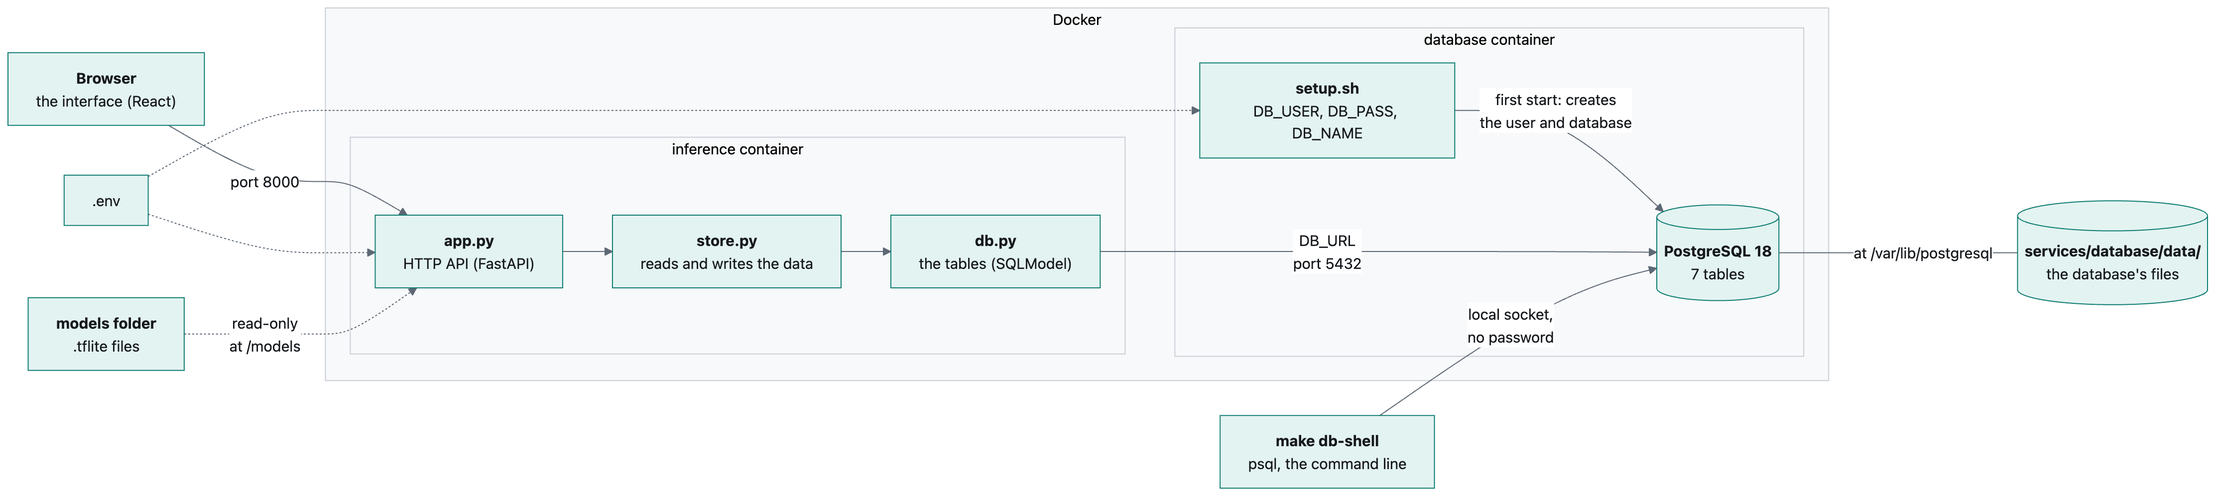
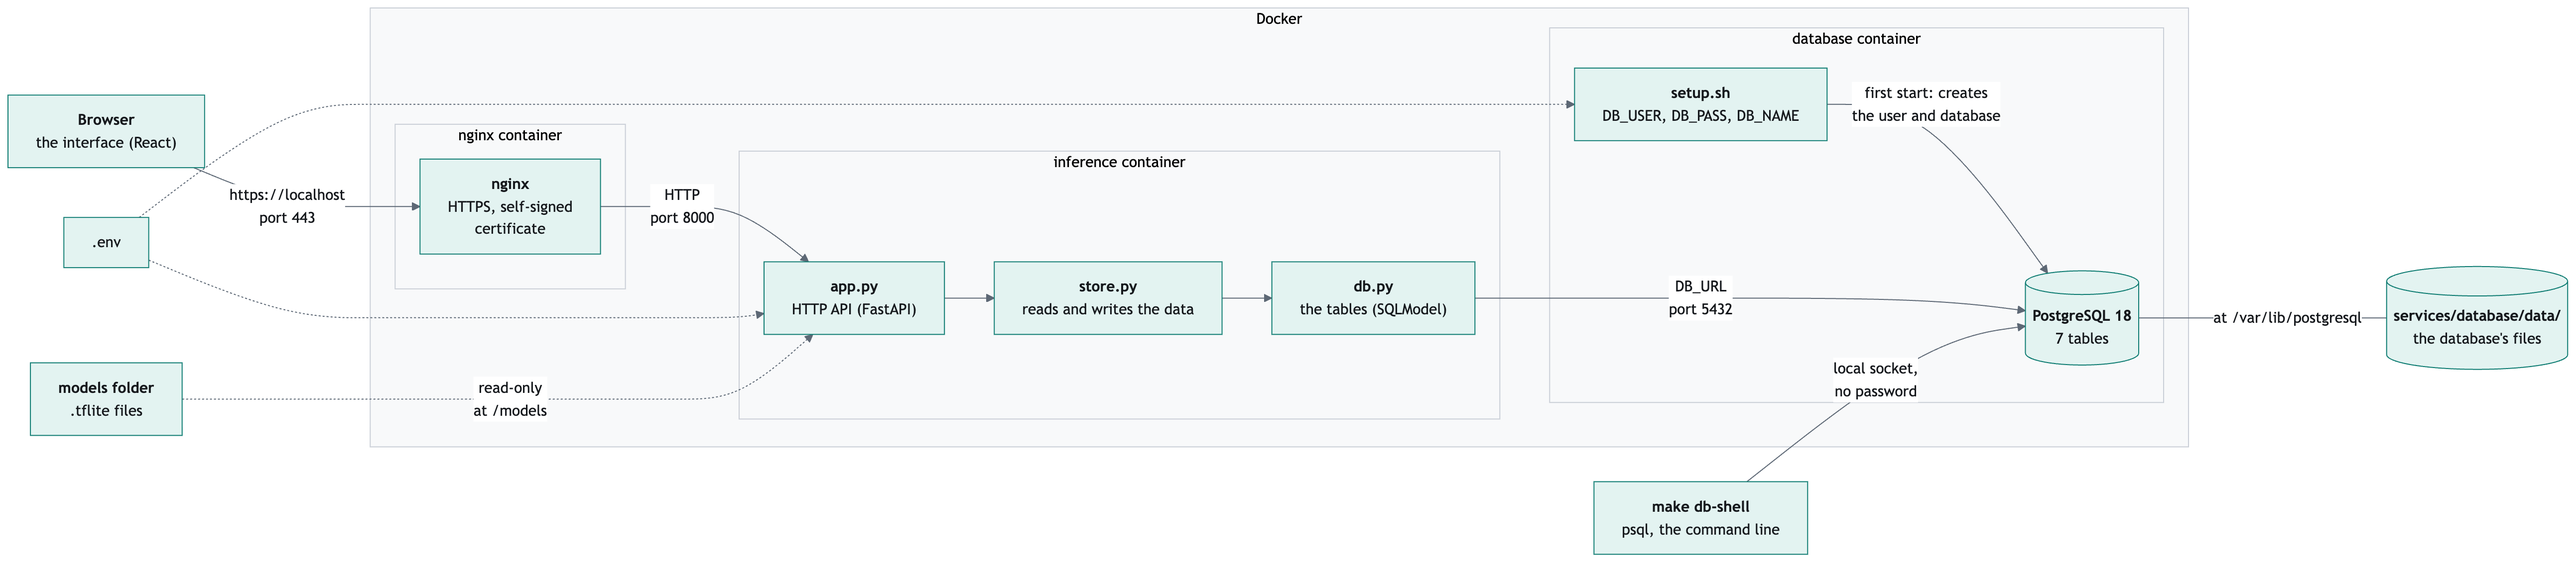
feat: nginx reverse proxy and https integraion

diff --git a/services/inference/web/vite.config.ts b/services/inference/web/vite.config.ts
@@ -4,7 +4,8 @@ import react from "@vitejs/plugin-react";
 export default defineConfig({
   plugins: [react()],
   server: {
-    proxy: { "/api": "http://localhost:8000" },
+    proxy: { "/api": { target: "https://localhost", secure: false } },
   },
-  // `npm run dev` serves the app on port 5173 and forwards /api to the container on port 8000.
+  // `npm run dev` serves the app on port 5173 and forwards /api to the nginx container on port 443;
+  // secure: false accepts its self-signed certificate.
 });

diff --git a/INTERFACE.md b/INTERFACE.md
@@ -42,16 +42,22 @@ DB_URL=postgresql://db-username:db-password@database:5432/db-name
 Each line is one setting, explained in [Settings](#7-settings). Then start the service:
 
 ```bash
-make up    # builds the image (first time only) and starts the service
+make up    # builds the images (first time only) and starts the service
 ```
 
 The first `make up` takes a few minutes, because it downloads and builds everything. Later starts take a few seconds.
 
-Then open **http://localhost:8000** in your browser.
+Then open **https://localhost** in your browser.
+
+The first time, the browser warns that the connection is not private: the certificate is self-signed, made by the nginx image when it was built, not by a certificate authority. Click **Advanced**, then continue to localhost (in Safari: **Show Details**, then **visit this website**). The traffic is encrypted all the same. The certificate is valid for a year from the build; the warning comes back once whenever the nginx image is built from scratch with a new one, for example after `make clean`.
+
+On a server that doctors open from their own computers, use a certificate their browsers trust instead, for the server's name (from the clinic's IT department or Let's Encrypt): put it in `services/nginx/certs/` as `apnea.crt`, with its key as `apnea.key`, then run `make rebuild`. The nginx image then uses them and makes no self-signed certificate, and the warning disappears. Git ignores both files; the key ends up inside the image, so the image stays on the server.
+
+nginx is the only container with a port open on the computer, 443 (HTTPS): it passes every request on to the service, which listens on port 8000 inside Docker only. A plain `http://localhost` finds nothing, since port 80 is not open.
 
 The patient list starts empty: add patients and their nights as described in [Adding recordings](#3-adding-recordings).
 
-To check that it is running, `make ps` should show both containers, `apnea_database` and `apnea_inference`, as `(healthy)`.
+To check that it is running, `make ps` should show the three containers: `apnea_database` and `apnea_inference` as `(healthy)`, and `apnea_nginx` as `Up`.
 
 ### Stopping it
 
@@ -300,15 +306,15 @@ Run from the project folder.
 |---|---|
 | `make up` | Start the service (builds the image the first time) |
 | `make stop` | Stop the service |
-| `make ps` | Show whether the two containers are running and healthy |
+| `make ps` | Show whether the three containers are running, and whether the service and the database are healthy |
 | `make logs` | Show the service's log as it runs |
-| `make rebuild` | Rebuild and restart: needed after changing any code in `services/inference/` |
+| `make rebuild` | Rebuild and restart: needed after changing any code in `services/inference/` or `services/nginx/` |
 | `make shell` | Open a terminal inside the service's container |
 | `make db-shell` | Open PostgreSQL's command line, to look at the tables |
 | `make demo` | Add three demo patients, "Apnea-ECG control", "Apnea-ECG borderline" and "Apnea-ECG apnea", with the 35 test recordings of the Apnea-ECG Database (x01 to x35), on which no model was trained. They stay in the patient list like any other patient. The recordings are kept in `data/apnea-ecg/`; any missing ones are downloaded there first (about 210 MB in all). It takes a few minutes; running it again adds nothing |
 | `make eval` | Score `model_cinc2018_float32.tflite` and `model_cinc2018_int8.tflite` on the demo patients against the expert's minute labels. Prints accuracy, sensitivity, specificity, AUC and the TN, FP, FN and TP counts per model, and the accuracy per patient, and draws both confusion matrices in `results/evaluate.png`. Run `make demo` first, and `make rebuild` once after updating the project (the image needs matplotlib). The first run analyses the 35 nights with each model, about 2 minutes, and keeps the analyses, so the interface then shows those nights as analysed; later runs reuse them and take seconds |
 | `make down` | Remove the containers. Recordings and the database are kept |
-| `make build` | Build both images, the database's and the service's, without starting them |
+| `make build` | Build the three images, the database's, the service's and nginx's, without starting them |
 | `make clean` | **Removes the containers and every unused Docker image and cache on this computer**, including other projects'. Recordings and the database are kept |
 | `make fclean` | `make clean`, then **deletes the database**: every patient, recording and analysis. The next `make up` starts with an empty one. This cannot be undone: make a [backup](DATABASE.md#10-backup-and-restore) first |
 
@@ -335,17 +341,21 @@ services/
 │   ├── web/               # the interface: React 19 + TypeScript, built with Vite
 │   └── data/
 │       └── models/        # .tflite models
-└── database/
-    ├── Dockerfile         # the database's image: PostgreSQL 18
-    ├── setup/setup.sh     # starts PostgreSQL with the settings from .env
-    └── data/              # the database's files (not committed)
+├── database/
+│   ├── Dockerfile         # the database's image: PostgreSQL 18
+│   ├── setup/setup.sh     # starts PostgreSQL with the settings from .env
+│   └── data/              # the database's files (not committed)
+└── nginx/
+    ├── Dockerfile         # the proxy's image: nginx on Debian 12, with its certificate
+    ├── certs/             # the server's own apnea.crt and apnea.key, if any (not committed)
+    └── conf/nginx.conf    # HTTPS on port 443, every request passed on to the service
 ```
 
 `pipeline.py`, `patients.py`, `db.py` and `store.py` do not depend on the web server, so they can be imported from any Python script.
 
 ### HTTP API
 
-The interface talks to the server through these routes. `model` is a file name from the models folder; without it, the model named by `MODEL_PATH` is used.
+The interface talks to the server through these routes, at `https://localhost` through nginx (with curl, add `-k` to accept the self-signed certificate). `model` is a file name from the models folder; without it, the model named by `MODEL_PATH` is used.
 
 | Method and path | Returns |
 |---|---|

diff --git a/README.md b/README.md
@@ -24,7 +24,15 @@ The project has two parts:
 | **Model** | Dilated residual 1D CNN: 4-layer stem, 7 residual blocks (dilations 1 to 64), 69,646 parameters |
 | **Loss** | Binary cross-entropy |
 | **Framework** | TensorFlow 2.20 (Keras 3) |
-| **Review interface** | FastAPI + React, with a PostgreSQL database, in Docker ([INTERFACE.md](INTERFACE.md)) |
+| **Review interface** | FastAPI + React, with a PostgreSQL database, behind an nginx HTTPS proxy, in Docker ([INTERFACE.md](INTERFACE.md)) |
+
+---
+
+## Model
+
+![The model: stem, 7 residual blocks, pooling and head, with the inside of one residual block](docs/diagrams/model-architecture.png)
+
+The stem shrinks the minute to 375 timesteps; the dilated blocks then widen the receptive field to **8225 samples (82.2 s)**. `build_model()` asserts that this covers the 60 s window, so a change to the stem or the dilations that breaks the coverage fails at build time.
 
 ---
 
@@ -96,12 +104,16 @@ ENSAM_APNEA_CNN/
 │   │   ├── demo/evaluate.py   # make eval: the cinc2018 models scored on those patients
 │   │   ├── data/models/     # .tflite models the service runs
 │   │   └── Dockerfile, requirements.txt
-│   └── database/            # the PostgreSQL database, see DATABASE.md
-│       ├── Dockerfile       # its image (PostgreSQL 18)
-│       ├── setup/setup.sh   # starts PostgreSQL with the settings from .env
-│       └── data/            # its files: patients, recordings, results (git-ignored)
+│   ├── database/            # the PostgreSQL database, see DATABASE.md
+│   │   ├── Dockerfile       # its image (PostgreSQL 18)
+│   │   ├── setup/setup.sh   # starts PostgreSQL with the settings from .env
+│   │   └── data/            # its files: patients, recordings, results (git-ignored)
+│   └── nginx/               # the reverse proxy: HTTPS on port 443, the only port open on the computer
+│       ├── Dockerfile       # its image (nginx on Debian 12) and its certificate
+│       ├── certs/           # the server's own certificate and key, if any; else a self-signed one is made
+│       └── conf/nginx.conf  # passes every request on to the inference service
 ├── requirements.txt         # Python packages of the training notebook
-├── docker-compose.yml       # runs the inference service and its database
+├── docker-compose.yml       # runs nginx, the inference service and its database
 ├── Makefile                 # make up, make rebuild, make logs, make shell...
 ├── .env.example             # service settings; copy to .env
 ├── INTERFACE.md             # inference service guide
@@ -139,7 +151,9 @@ cp .env.example .env    # then replace change-me with a password, in both lines
 make up
 ```
 
-Then open **http://localhost:8000**: a list of patients, each with their recorded nights. Pick a model and analyse a night, or all of a patient's nights at once, to see the apnea minutes per hour, the flagged periods and a minute-by-minute chart.
+Then open **https://localhost**: a list of patients, each with their recorded nights. Pick a model and analyse a night, or all of a patient's nights at once, to see the apnea minutes per hour, the flagged periods and a minute-by-minute chart.
+
+The page goes through nginx, the only container with a port open on the computer (443). Its certificate is self-signed, so the browser warns the first time: click **Advanced**, then continue to localhost. For a deployment, a trusted certificate and its key go in `services/nginx/certs/` as `apnea.crt` and `apnea.key` (see [INTERFACE.md](INTERFACE.md#first-start)).
 
 ![A night analysed in the interface](docs/screenshots/night.png)
 
@@ -184,9 +198,7 @@ A minute is dropped only when the expert did not score it, never for signal qual
 
 ### Model
 
-![The model: stem, 7 residual blocks, pooling and head, with the inside of one residual block](docs/diagrams/model-architecture.png)
-
-The stem shrinks the minute to 375 timesteps; the dilated blocks then widen the receptive field to **8225 samples (82.2 s)**. `build_model()` asserts that this covers the 60 s window, so a change to the stem or the dilations that breaks the coverage fails at build time.
+Builds the network described in [Model](#model) and compiles it.
 
 ### Training
 

diff --git a/DATABASE.md b/DATABASE.md
@@ -33,9 +33,9 @@ Nothing about patients is kept in files: a night's `.csv` file is stored in the 
 | Code | [services/inference/source/db.py](services/inference/source/db.py): the tables. [services/inference/source/store.py](services/inference/source/store.py): how the service reads and writes them |
 | Command line | `make db-shell` |
 
-Where the database sits: the browser talks only to the inference service, and the inference service is the only program that connects to PostgreSQL. `make db-shell` opens it from inside its own container.
+Where the database sits: the browser talks only to nginx, over HTTPS on port 443, and nginx passes each request on to the inference service; the inference service is the only program that connects to PostgreSQL. `make db-shell` opens it from inside its own container.
 
-![The browser, the inference container and the database container, and how they connect](docs/diagrams/database-architecture.png)
+![The browser, the nginx, inference and database containers, and how they connect](docs/diagrams/database-architecture.png)
 
 The seven tables and how they point to each other. `PK` is a table's own id, `FK` a column that points to another table's id, `UK` a column whose values are all different:
 
